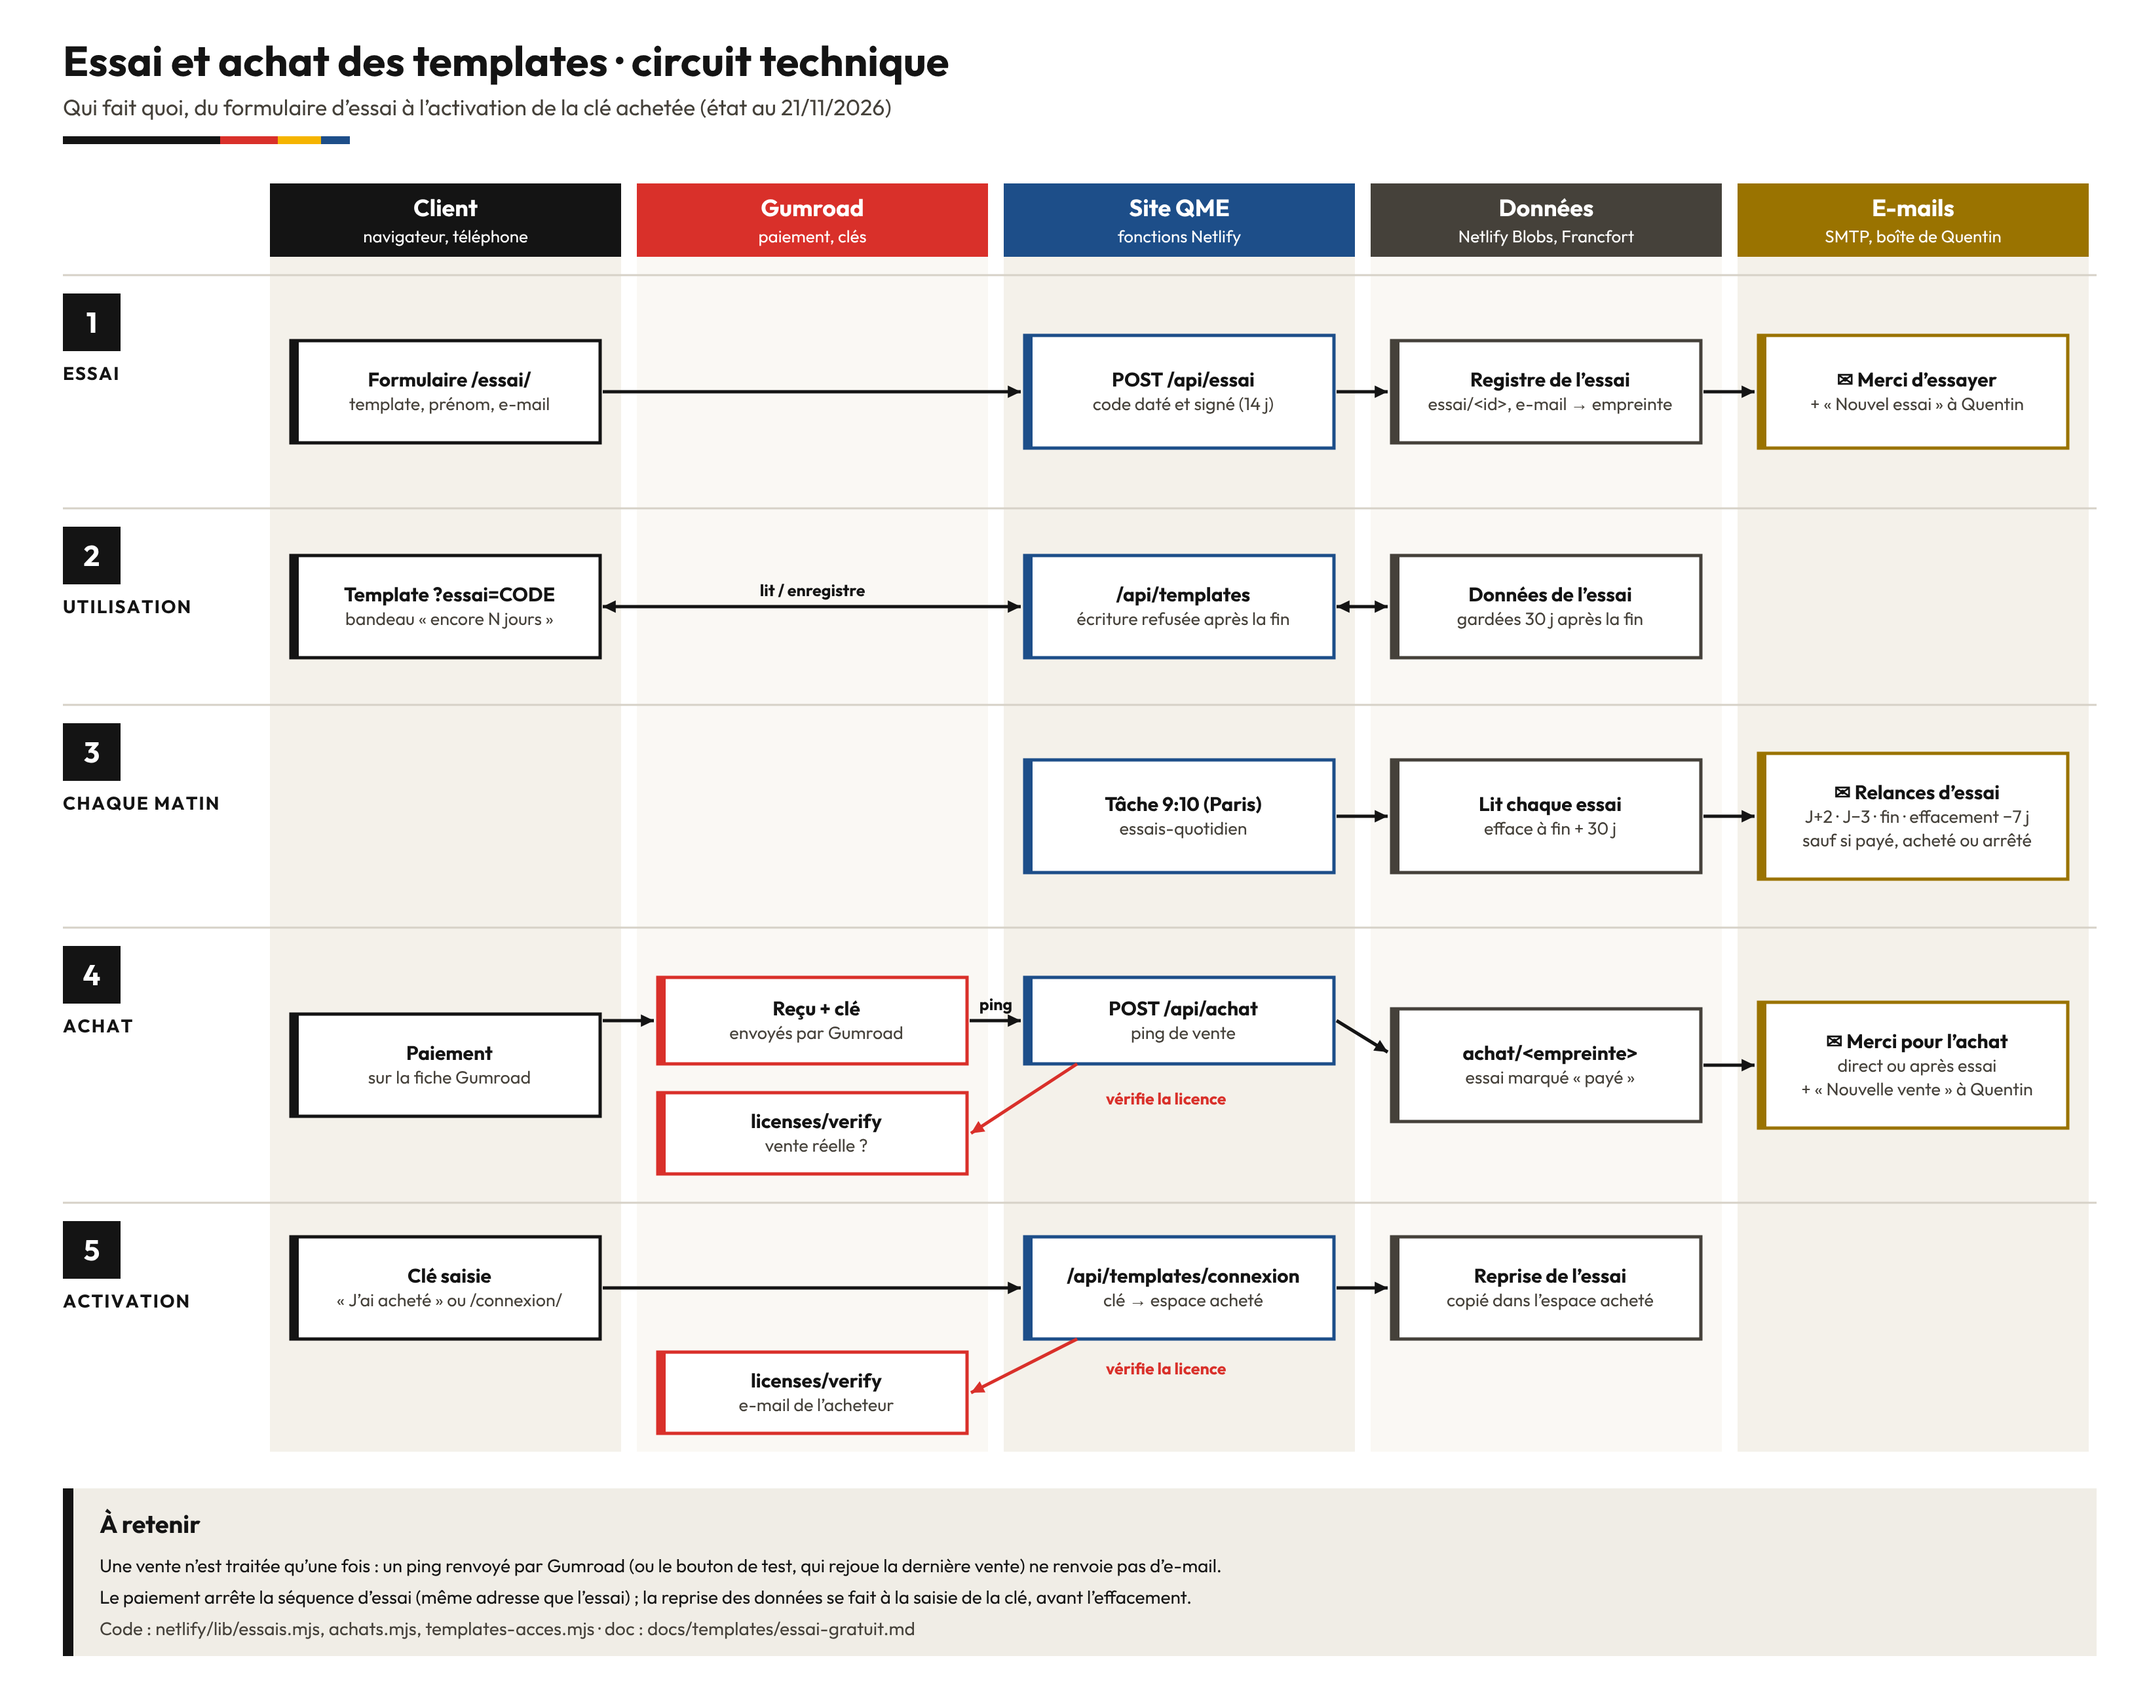
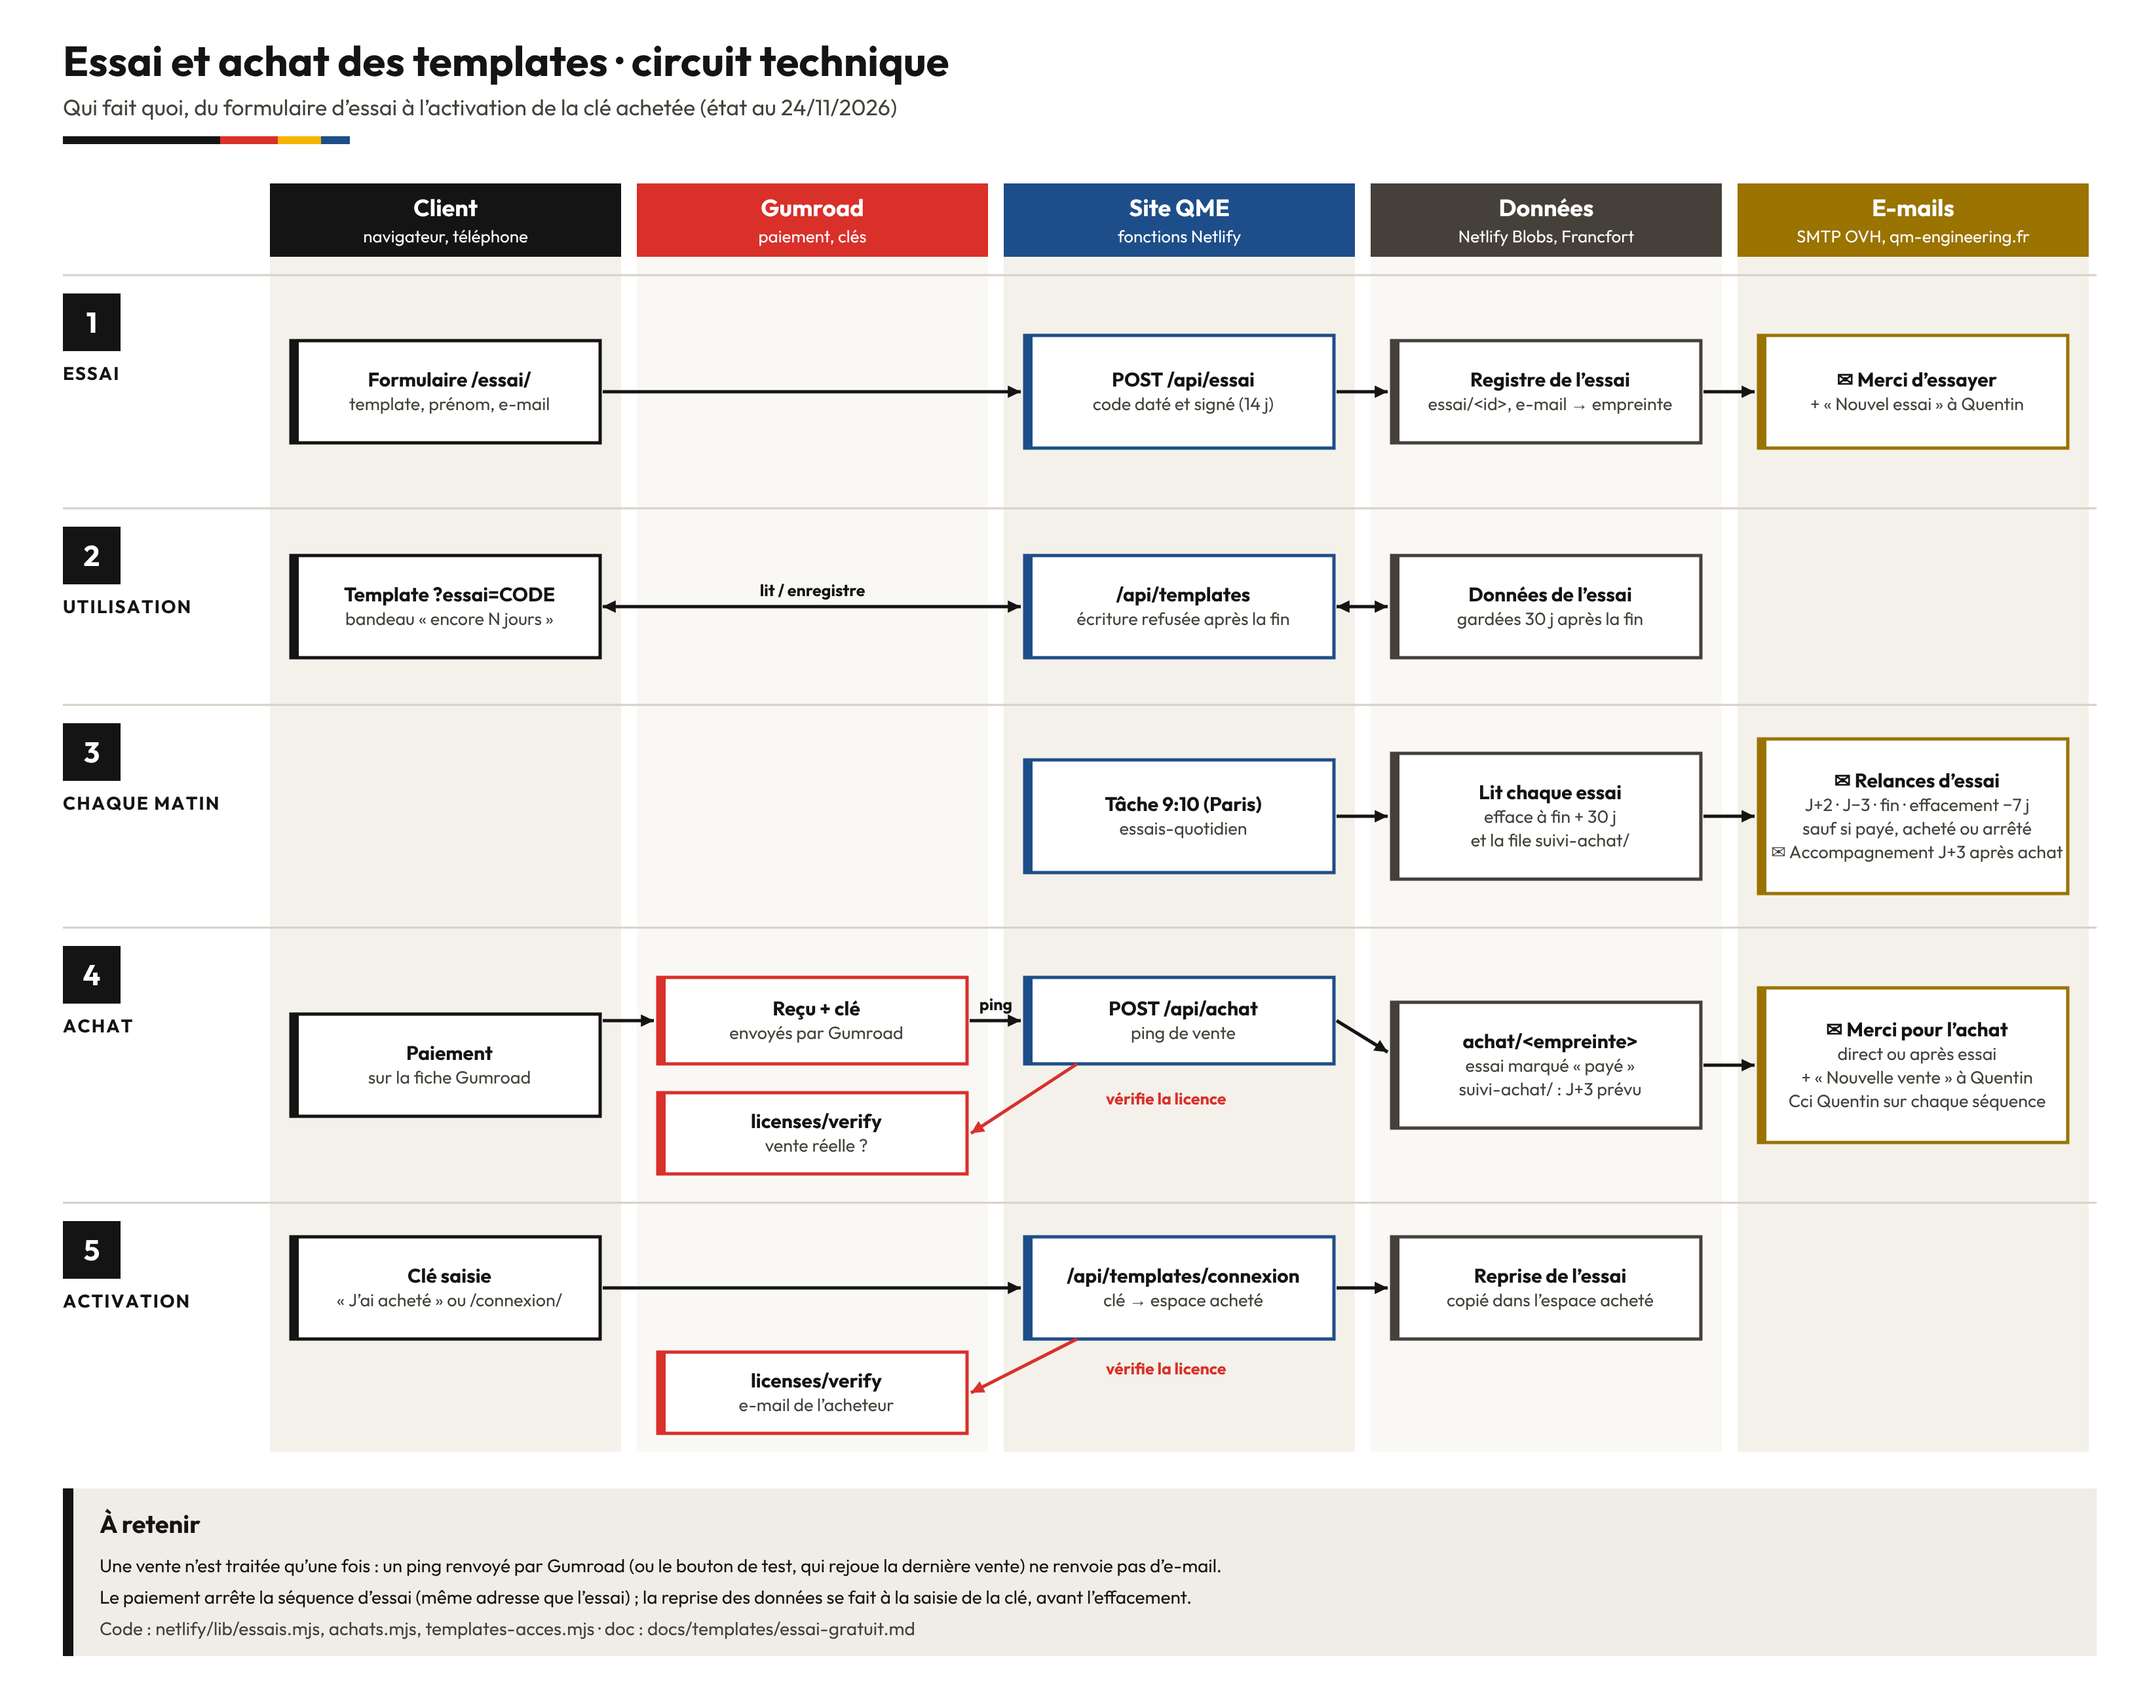
Mails automatiques : accompagnement J+3 après achat, copie cachée à Quentin, suivi (#262)
* Mails automatiques : accompagnement J+3 après achat et copie cachée à Quentin

- Accompagnement après achat (template ou pack) : mis en file au ping Gumroad, envoyé par la
  tournée quotidienne de 9:10 entre J+3 et J+7, un seul e-mail, file effacée après envoi ;
  rien pour une adresse sur la liste d'opposition. Template : deux astuces et une aide au
  réglage ; pack : ses templates et par lequel commencer.
- Copie cachée par défaut vers quentin.morel@qm-engineering.fr pour les séquences (essai,
  achat, accompagnement) ; jamais sur les codes de connexion, les notifications à Quentin
  ni les annonces en nombre. Variable ESSAI_COPIE_CACHEE (« non » pour couper).
- Règle inscrite dans CLAUDE.md ; consultation des envois dans DELIVRABILITE.md.

Claude-Session: https://claude.ai/code/session_0183EW52oRuri2VyMDk3xAc2

* Suivi des accompagnements d'achat dans /admin/suivi/ et documentation des séquences

- Accompagnement gardé 30 jours après l'envoi (date et objet), puis effacé ; renvoyé par
  /api/essai/essais (accompagnements) et affiché dans /admin/suivi/.
- essai-gratuit.md : accompagnement J+3 (template et pack), copie cachée, suivi.
- Schéma du circuit essai-achat mis à jour (tournée du matin, file suivi-achat, Cci).

Claude-Session: https://claude.ai/code/session_0183EW52oRuri2VyMDk3xAc2

---------

diff --git a/admin/suivi/index.html b/admin/suivi/index.html
@@ -78,6 +78,14 @@
         <tbody id="lignes"></tbody>
       </table>
     </div>
+    <h2 style="font-size:22px;margin:0">Accompagnements après achat</h2>
+    <p class="admin-etat" style="margin:0">Un e-mail par achat (template ou pack), 3 jours après, à 9 h 10 (Paris), rattrapage jusqu'à 7 jours ; gardé ici 30 jours après l'envoi. Copie cachée dans votre boîte pro.</p>
+    <div class="admin-boite">
+      <table class="admin-table">
+        <thead><tr><th>Client</th><th>Produit</th><th>Achat</th><th>Prévu</th><th>État</th></tr></thead>
+        <tbody id="accompagnements"></tbody>
+      </table>
+    </div>
     <h2 id="titre-client" style="font-size:22px;margin:0"></h2>
     <div class="prochain" id="prochain"></div>
     <div class="legende">
@@ -143,7 +151,7 @@
   }
 
 
-  let essais = [], selection = location.hash.slice(1), active = 'merci', courant = null;
+  let essais = [], accompagnements = [], selection = location.hash.slice(1), active = 'merci', courant = null;
 
   function analyser(e) {
     const debut = midi(e.debut), now = new Date();
@@ -180,12 +188,28 @@
       const r = await fetch('/api/essai/essais', { headers: { 'x-admin': code }, cache: 'no-store' });
       if (r.status === 401) { garder(''); $('#resultats').hidden = true; $('#etat').textContent = 'Code administrateur refusé.'; return; }
       if (!r.ok) throw new Error();
-      essais = (await r.json()).essais || [];
+      const d = await r.json();
+      essais = d.essais || []; accompagnements = d.accompagnements || [];
       if (!essais.find((x) => x.id === selection)) selection = essais[0] ? essais[0].id : '';
       $('#resultats').hidden = false; $('#maj').hidden = false;
       $('#etat').textContent = `${essais.length} essai(s) conservé(s). Mis à jour à ${new Date().toLocaleTimeString('fr-FR')}.`;
       rendre();
     } catch { $('#etat').textContent = 'Chargement impossible (connexion ?). Réessayez avec Actualiser.'; }
+  }
+
+  function rendreAccompagnements() {
+    const corps = $('#accompagnements'); corps.replaceChildren();
+    if (!accompagnements.length) corps.append(el('tr', {}, el('td', { colSpan: 5, textContent: 'Aucun achat récent.' })));
+    for (const x of accompagnements) {
+      const jour = (j) => new Date(`${j}T12:00:00Z`);
+      const etat = x.envoye ? `envoyé le ${court(new Date(x.envoye))} · ${heure(new Date(x.envoye))}` : 'à venir';
+      corps.append(el('tr', {},
+        el('td', {}, el('b', { textContent: x.prenom || '—' }), el('br'), el('small', { textContent: x.email })),
+        el('td', {}, `${x.produit}${x.type === 'pack' ? ' (pack)' : ''}`),
+        el('td', { className: 'n' }, court(jour(x.achat))),
+        el('td', { className: 'n' }, court(jour(x.du))),
+        el('td', { title: x.objet || '' }, etat)));
+    }
   }
 
   function rendre() {
@@ -208,6 +232,7 @@
       corps.append(tr);
     }
     rendreLigne(analyses.find((a) => a.e.id === selection) || null);
+    rendreAccompagnements();
   }
 
   // Ligne fixe : un nœud par étape, bifurcation achat sous chacun.

diff --git a/docs/templates/essai-gratuit.md b/docs/templates/essai-gratuit.md
@@ -31,7 +31,7 @@ sont reprises dans l'espace acheté. E-mails envoyés **depuis `quentin.morel@qm
 | Effacement − 7 jours | Vos données d'essai seront effacées le … | Dernier e-mail : acheter ou exporter |
 | Nouvelle demande, même adresse | Votre code d'essai : <template> | Code renvoyé (jamais affiché à l'écran) |
 
-Aucun e-mail après un achat ou un clic sur le lien d'arrêt (bas de chaque e-mail). Un seul e-mail par jour et par
+Aucun e-mail d'essai après un achat ou un clic sur le lien d'arrêt (bas de chaque e-mail). Un seul e-mail par jour et par
 essai. Signature graphique (variante C, 21/11/2026) dans la version HTML : `netlify/lib/signature.mjs`,
 voir `docs/templates/communication/signature/`. Textes : `contenuMail` dans `netlify/lib/essais.mjs` ; fiches de prise en main dans `netlify/lib/essais-prise-en-main.mjs` (un
 template ouvert à l'essai sans fiche fait échouer `npm test` : l'écrire depuis sa page catalogue, sans libellé de bouton non vérifié) (vouvoiement, Quentin à la première personne).
@@ -45,10 +45,18 @@ template ouvert à l'essai sans fiche fait échouer `npm test` : l'écrire depui
 |---|---|---|
 | Achat sans essai (ou essai déjà effacé, ou autre adresse) | Merci pour votre achat : <produit> | Connexion avec la clé, premier pas du template (ou liste des templates du pack) |
 | Achat avec un essai de la même adresse | Merci : « <template> » est à vous | Saisir la clé dans « J'ai acheté » : données reprises ; date limite si l'essai est terminé ; « qu'est-ce qui vous a décidé ? » |
+| **Achat + 3 jours** (rattrapage jusqu'à + 7), template (24/11/2026) | <template> : tout se passe bien ? | Deux fonctions peu visibles et l'aide au réglage (fiche de prise en main), connexion sur un autre appareil, demande de retour |
+| **Achat + 3 jours**, pack (24/11/2026) | Par où continuer avec le <pack> | Ses templates en une ligne chacun, par lequel commencer et son premier pas, un seul compte pour tout |
 
 L'essai est marqué `paye` : **la séquence d'essai s'arrête dès le paiement** (avant, elle ne s'arrêtait qu'à la
 saisie de la clé). Les données restent reprises à la saisie de la clé. Une vente n'est traitée qu'une fois.
-Notification à Quentin : « Nouvelle vente : <produit> · directe / après essai ».
+Notification à Quentin : « Nouvelle vente : <produit> · directe / après essai », avec la date prévue de l'accompagnement.
+
+**Accompagnement après achat** (`contenuMailSuivi` et `tournerSuivisAchat` dans `netlify/lib/achats.mjs`) : au ping, la
+vente est mise en file (`suivi-achat/<empreinte de la clé>` : adresse, prénom, produit, date d'achat, date prévue) ; la
+tâche de 9 h 10 l'envoie à J+3 (rattrapage jusqu'à J+7, nouvel essai le lendemain en cas d'échec), un seul e-mail par
+achat, rien pour une adresse sur la liste d'opposition. L'entrée est gardée 30 jours après l'envoi pour `/admin/suivi/`,
+puis effacée.
 
 **Réglage Gumroad (une fois, par Quentin)** : Gumroad → Settings → Advanced → Ping endpoint
 = `https://qm-engineering.fr/api/achat`. Sans ce réglage, aucun e-mail d'achat ne part.
@@ -58,7 +66,10 @@ Notification à Quentin : « Nouvelle vente : <produit> · directe / après essa
 Depuis le 23/11/2026, les e-mails partent en SMTP authentifié par **OVH** (`ssl0.ovh.net`, port 465), depuis la boîte
 `quentin.morel@qm-engineering.fr` : SPF, DKIM et DMARC sont alignés sur le domaine (test du 23/11 : trois « pass » chez
 Gmail). Avant, ils partaient du Gmail de Quentin et échouaient au SPF et au DMARC. Ils n'apparaissent pas dans
-« Messages envoyés » de Gmail ; les réponses arrivent sur la boîte OVH, redirigée vers Gmail. Détail :
+« Messages envoyés » de Gmail ; les réponses arrivent sur la boîte OVH, redirigée vers Gmail. **Copie cachée** (24/11/2026) :
+chaque e-mail des séquences (essai, achat, accompagnement) part avec `quentin.morel@qm-engineering.fr` en copie cachée,
+sauf les codes et liens de connexion, les notifications et les annonces en nombre (`netlify/lib/mail.mjs` ; variable
+`ESSAI_COPIE_CACHEE`, « non » pour couper). Détail :
 `docs/templates/communication/DELIVRABILITE.md`.
 
 Netlify → site → Project configuration → Environment variables (portée « Functions ») :
@@ -88,7 +99,8 @@ nombre d'envois par heure et par compte (de l'ordre de 200 sur MX Plan) : à vé
   rattrapage ou non envoyés, bifurcation à l'achat (`paye` ou `achete`) ou à l'arrêt des rappels, texte de chaque e-mail.
   L'API `/api/essai/essais` renvoie pour cela, en plus, `envois` (dates par e-mail), `paye`, `produit` et `prix`
   (centimes). Lien « Suivi » sur chaque ligne de `/admin/essais/`. Les e-mails d'achat ne sont pas enregistrés dans
-  l'essai : ils n'apparaissent pas sur la ligne.
+  l'essai : ils n'apparaissent pas sur la ligne. Tableau « Accompagnements après achat » (24/11/2026) : chaque achat
+  des 30 derniers jours, date prévue et date d'envoi de l'accompagnement (champ `accompagnements` de `/api/essai/essais`).
 
 ## Base de contacts « Nouveautés QME » (demande de Quentin, 19/11/2026)
 

diff --git a/docs/templates/communication/DELIVRABILITE.md b/docs/templates/communication/DELIVRABILITE.md
@@ -33,6 +33,21 @@ l'agenda, des connecteurs et des routines, tous sur le compte Gmail).
   (`ESSAI_SMTP_MOT_DE_PASSE`), puis de redéployer.
 - Une variable Netlify modifiée ne s'applique qu'au déploiement suivant.
 
+## Voir les e-mails envoyés par le site
+
+Le SMTP d'OVH ne garde aucune copie : les e-mails du site n'apparaissent ni dans « Messages envoyés » de Gmail ni dans
+« Éléments envoyés » du webmail OVH (qui ne contient que ce qui est écrit depuis le webmail).
+
+- **Copie cachée (règle du 24/11/2026)** : chaque e-mail des séquences automatiques (essai : merci, prise en main,
+  rappel, fin, effacement ; achat : remerciement ; accompagnement J+3 après achat) part avec
+  `quentin.morel@qm-engineering.fr` en copie cachée (`netlify/lib/mail.mjs`). La copie arrive dans la boîte OVH, donc
+  dans Gmail : recherche `from:quentin.morel@qm-engineering.fr deliveredto:quentin.morel@qm-engineering.fr`.
+  Sans copie : codes et liens de connexion (ils ouvrent le compte d'un client), notifications adressées à Quentin,
+  annonces envoyées en nombre. Couper : variable Netlify `ESSAI_COPIE_CACHEE=non`, puis redéployer.
+- **Journaux Netlify** de la fonction `essais-quotidien` (chaque jour à 9:10, Paris) : nombre d'e-mails envoyés par type
+  (`Essais gratuits : …`, `Accompagnements d'achat : …`), sans adresse.
+- **Page admin des essais** (`/admin/essais/`, code administrateur) : colonne des e-mails envoyés pour chaque essai.
+
 ## Étape suivante : durcir le DMARC
 
 Rappel programmé le 07/12/2026 à 10:00.

diff --git a/CLAUDE.md b/CLAUDE.md
@@ -14,6 +14,14 @@ Site de QME (Quentin Morel Engineering) et templates vendus sur Gumroad. Lire `R
   (images en pièces jointes intégrées, l'outil Gmail supprimant les images distantes). Procédure :
   `docs/templates/communication/signature/README.md`. Elle remplace la signature texte, qui reste dans la version texte brut.
 
+## Copie cachée des e-mails automatiques (décision du 24/11/2026)
+
+- **Toute séquence d'e-mails envoyée automatiquement par le site via OVH** (essai, achat, accompagnement après achat,
+  toute séquence future) met Quentin en copie cachée sur son adresse pro (`quentin.morel@qm-engineering.fr`) : c'est le
+  comportement par défaut de `netlify/lib/mail.mjs`. Seules exceptions (`copieCachee: false`) : codes et liens de
+  connexion, notifications adressées à Quentin, annonces en nombre. Où voir ces envois :
+  `docs/templates/communication/DELIVRABILITE.md`.
+
 ## Prospection : mention d'opposition (règle absolue)
 
 - **Tout e-mail de prospection** (entreprise, affiliation, partenariat, relance, réponse type aux refus) : vérifier
